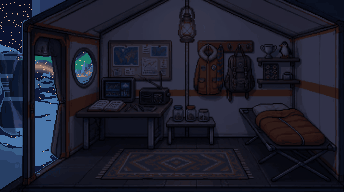
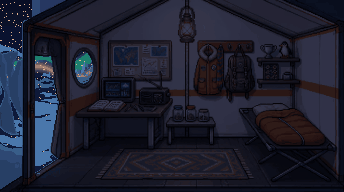
Linu vivo na cena e a geleira parada quando a luz apaga
O Linu da estação respira, pisca e pula ao toque (public/js/linu-vivo.js, a cópia do kit da
família), com o quadro de olhos fechados em img/linu/linu-frente-piscando.png. Parado com
"menos movimento" e fora da tela.

A geleira do vidro da esquerda piscava ao apagar a luz: o cena-apagada.py recoloria o dia
naquele canto. Agora o canto (x < 23, y < 135) vem da noite, e a imagem apagada foi corrigida.

Changed region(s): [[0.0, 0.2812, 0.0872, 0.6875]]

diff --git a/public/js/linu-vivo.js b/public/js/linu-vivo.js
@@ -1,0 +1,89 @@
+/* O Linu vivo (07/11/2026), o mesmo nos sites da família. Toda imagem com data-linu-vivo ganha:
+   - a respiração: desce e sobe 1 pixel da grade (2 px na tela se ele está em 2×), devagar;
+   - o piscar: troca pelo quadro de olhos fechados (data-piscar="img/…-piscando.png") por um instante, a cada 2,5 a 6 s,
+     às vezes duas vezes seguidas;
+   - o pulinho ao passar o mouse ou tocar.
+   Só anima enquanto ele está na tela e a aba está aberta; com “menos movimento”, fica parado (regra da identidade:
+   o Linu pode viver; o texto não anima sozinho). Usa a API de animação do navegador e a propriedade `translate`, para
+   somar com as animações próprias de cada site (que usam `transform`) sem brigar. Sem CSS: a CSP dos sites bloqueia
+   estilo embutido. Se alguém trocar a imagem (o Linu andando no Linu Sites), o piscar espera ela voltar.
+   O original mora em linuarquivos/modelos/ferramentas/familia/; cada site tem uma cópia em js/. */
+(function () {
+  "use strict";
+  var menos = window.matchMedia("(prefers-reduced-motion: reduce)");
+  var linus = Array.prototype.slice.call(document.querySelectorAll("img[data-linu-vivo]"));
+  if (!linus.length || !("animate" in Element.prototype)) return;
+
+  function escala(img) {
+    var k = img.naturalWidth ? Math.round(img.getBoundingClientRect().width / img.naturalWidth) : 1;
+    return Math.max(1, k || 1);
+  }
+
+  linus.forEach(function (img) {
+    var base = img.getAttribute("src");
+    var fechado = img.dataset.piscar;
+    var visivel = false;
+    var respira = null;
+    var relogio = null;
+    if (fechado) { var pre = new Image(); pre.src = fechado; }
+
+    function livre() { return img.getAttribute("src") === base && !img.closest("[data-andando]") && !img.hasAttribute("data-andando"); }
+
+    function respirar() {
+      if (respira) respira.cancel();
+      var k = escala(img);
+      respira = img.animate([{ translate: "0 0" }, { translate: "0 " + k + "px" }],
+        { duration: 1700, iterations: Infinity, direction: "alternate", easing: "steps(1, end)" });
+      if (!visivel) respira.pause();
+    }
+
+    function piscarUmaVez(depois) {
+      if (!fechado || !livre()) return depois && depois();
+      img.setAttribute("src", fechado);
+      setTimeout(function () {
+        if (img.getAttribute("src") === fechado) img.setAttribute("src", base);
+        if (depois) setTimeout(depois, 170);
+      }, 130);
+    }
+
+    function agendar() {
+      clearTimeout(relogio);
+      relogio = setTimeout(function () {
+        if (visivel && !document.hidden && !menos.matches) {
+          piscarUmaVez(Math.random() < 0.25 ? function () { piscarUmaVez(); } : null);
+        }
+        agendar();
+      }, 2500 + Math.random() * 3500);
+    }
+
+    function pular() {
+      if (menos.matches) return;
+      var k = escala(img);
+      img.animate([{ translate: "0 0" }, { translate: "0 " + (-6 * k) + "px", offset: 0.4 }, { translate: "0 0" }],
+        { duration: 420, easing: "steps(6, end)", composite: "add" });
+      piscarUmaVez();
+    }
+
+    function ligar() {
+      if (menos.matches) { if (respira) respira.cancel(); respira = null; clearTimeout(relogio); return; }
+      respirar();
+      agendar();
+    }
+
+    if ("IntersectionObserver" in window) {
+      new IntersectionObserver(function (itens) {
+        visivel = itens[0].isIntersecting;
+        if (respira) { if (visivel && !document.hidden) respira.play(); else respira.pause(); }
+      }).observe(img);
+    } else {
+      visivel = true;
+    }
+    document.addEventListener("visibilitychange", function () {
+      if (respira) { if (document.hidden || !visivel) respira.pause(); else respira.play(); }
+    });
+    img.addEventListener("pointerenter", function (e) { if (e.pointerType === "mouse") pular(); });
+    img.addEventListener("pointerdown", pular);
+    if (menos.addEventListener) menos.addEventListener("change", ligar);
+    if (img.complete) ligar(); else img.addEventListener("load", ligar, { once: true });
+  });
+})();

diff --git a/public/ja/index.html b/public/ja/index.html
@@ -57,6 +57,7 @@
   <script type="application/json" id="textos-js">{"menu_abrir":"メニューを開く","menu_fechar":"メニューを閉じる","luz_apagar_aria":"明かりを消す（ダークモード）","luz_acender_aria":"明かりをつける（ライトモード）","luz_apagar":"明かりを消す","luz_acender":"明かりをつける","fechar":"閉じる","escolha":"種類を選ぶと目安が表示されます","sem_tipo":"大丈夫です。ご相談の中で一緒に決めましょう。","um_item":"1項目","n_itens":"{n}項目","extra":"＋{itens}はご提案で","por_ano":"年額{valor}","por_mes":"月額{valor}","estimativa":"目安：{valor}から{extra}","linha_tipo":"種類：{nome}","linha_itens":"必要な機能：","linha_depois":"公開後：{nome}{anual}","anual":"（年払い）","linha_estimativa":"サイトの目安：{valor}から{extra}","ola":"こんにちは。ウェブサイトの制作を相談したいです。","sobre":"私のビジネスについて：","assunto":"ウェブサイト制作のご相談","ola_conversa":"こんにちは。ウェブサイトについて相談させてください。","area_vazia":"この分野の実績はここにはありません。","conversa_aberta":"今はご連絡いただける時間です。お客様の時刻で{fim}まで対応します。","conversa_fechada":"今は時間外です。次の開始は、お客様の時刻で{inicio}です。"}</script>
   <script src="../js/tema-inicio.js?v=6"></script>
   <link rel="stylesheet" href="../css/estilo.css?v=31">
+  <script src="../js/linu-vivo.js?v=1" defer></script>
   <script src="../js/tema.js?v=9" defer></script>
   <script src="../js/menu.js?v=7" defer></script>
   <script src="../js/movimento.js?v=10" defer></script>
@@ -152,7 +153,7 @@
                 <li class="plaquinha plaquinha-contato"><a href="#contato">見積もりを依頼</a></li>
               </ul>
               <span class="cena-linu" data-pose="frente">
-                <img class="pixel linu-frente" src="../img/linu/linu-frente.png?v=2" alt="" width="172" height="190">
+                <img class="pixel linu-frente" data-linu-vivo data-piscar="../img/linu/linu-frente-piscando.png" src="../img/linu/linu-frente.png?v=2" alt="" width="172" height="190">
                 <span class="linu-lado"><img class="pixel" src="../img/linu/linu-lado.png?v=2" alt="" width="688" height="190"></span>
                 <img class="pixel linu-costas" src="../img/linu/linu-costas.png?v=2" alt="" width="172" height="190">
               </span>

diff --git a/public/ko/index.html b/public/ko/index.html
@@ -57,6 +57,7 @@
   <script type="application/json" id="textos-js">{"menu_abrir":"메뉴 열기","menu_fechar":"메뉴 닫기","luz_apagar_aria":"불 끄기 (다크 모드)","luz_acender_aria":"불 켜기 (라이트 모드)","luz_apagar":"불 끄기","luz_acender":"불 켜기","fechar":"닫기","escolha":"유형을 고르면 예상 가격이 보입니다","sem_tipo":"괜찮습니다. 상담하면서 함께 정해요.","um_item":"1개 항목","n_itens":"{n}개 항목","extra":" + {itens}은 제안서에서","por_ano":"연 {valor}","por_mes":"월 {valor}","estimativa":"예상: 최소 {valor}{extra}","linha_tipo":"유형: {nome}","linha_itens":"필요한 기능:","linha_depois":"오픈 후: {nome}{anual}","anual":" (연 선납)","linha_estimativa":"사이트 예상 가격: 최소 {valor}{extra}","ola":"안녕하세요! 웹사이트 제작을 문의드립니다.","sobre":"제 비즈니스 소개: ","assunto":"웹사이트 제작 문의","ola_conversa":"안녕하세요! 웹사이트에 대해 상담하고 싶습니다.","area_vazia":"이 분야의 프로젝트는 여기 없습니다.","conversa_aberta":"지금 상담할 수 있습니다. 현지 시간으로 {fim}까지입니다.","conversa_fechada":"지금은 상담 시간이 아닙니다. 다음 시작은 현지 시간으로 {inicio}입니다."}</script>
   <script src="../js/tema-inicio.js?v=6"></script>
   <link rel="stylesheet" href="../css/estilo.css?v=31">
+  <script src="../js/linu-vivo.js?v=1" defer></script>
   <script src="../js/tema.js?v=9" defer></script>
   <script src="../js/menu.js?v=7" defer></script>
   <script src="../js/movimento.js?v=10" defer></script>
@@ -152,7 +153,7 @@
                 <li class="plaquinha plaquinha-contato"><a href="#contato">견적 요청</a></li>
               </ul>
               <span class="cena-linu" data-pose="frente">
-                <img class="pixel linu-frente" src="../img/linu/linu-frente.png?v=2" alt="" width="172" height="190">
+                <img class="pixel linu-frente" data-linu-vivo data-piscar="../img/linu/linu-frente-piscando.png" src="../img/linu/linu-frente.png?v=2" alt="" width="172" height="190">
                 <span class="linu-lado"><img class="pixel" src="../img/linu/linu-lado.png?v=2" alt="" width="688" height="190"></span>
                 <img class="pixel linu-costas" src="../img/linu/linu-costas.png?v=2" alt="" width="172" height="190">
               </span>

diff --git a/public/fr/index.html b/public/fr/index.html
@@ -57,6 +57,7 @@
   <script type="application/json" id="textos-js">{"menu_abrir":"Ouvrir le menu","menu_fechar":"Fermer le menu","luz_apagar_aria":"Éteindre la lumière (mode sombre)","luz_acender_aria":"Allumer la lumière (mode clair)","luz_apagar":"Éteindre la lumière","luz_acender":"Allumer la lumière","fechar":"Fermer","escolha":"Choisissez le type pour voir une estimation","sem_tipo":"Pas de souci : l’échange aidera à choisir le type.","um_item":"un élément","n_itens":"{n} éléments","extra":" + {itens} dans la proposition","por_ano":"{valor} par an","por_mes":"{valor} par mois","estimativa":"Estimation : à partir de {valor}{extra}","linha_tipo":"Type : {nome}","linha_itens":"Doit contenir :","linha_depois":"Une fois en ligne : {nome}{anual}","anual":", en payant l’année","linha_estimativa":"Estimation du site : à partir de {valor}{extra}","ola":"Bonjour ! Je voudrais un site.","sobre":"À propos de mon entreprise : ","assunto":"Je voudrais un site","ola_conversa":"Bonjour ! J’aimerais parler d’un site.","area_vazia":"Aucun projet de ce secteur ici.","conversa_aberta":"Nous sommes disponibles jusqu’à {fim}, à votre heure.","conversa_fechada":"Nous ne sommes pas disponibles pour le moment. Prochain créneau : {inicio}, à votre heure."}</script>
   <script src="../js/tema-inicio.js?v=6"></script>
   <link rel="stylesheet" href="../css/estilo.css?v=31">
+  <script src="../js/linu-vivo.js?v=1" defer></script>
   <script src="../js/tema.js?v=9" defer></script>
   <script src="../js/menu.js?v=7" defer></script>
   <script src="../js/movimento.js?v=10" defer></script>
@@ -152,7 +153,7 @@
                 <li class="plaquinha plaquinha-contato"><a href="#contato">Demander un devis</a></li>
               </ul>
               <span class="cena-linu" data-pose="frente">
-                <img class="pixel linu-frente" src="../img/linu/linu-frente.png?v=2" alt="" width="172" height="190">
+                <img class="pixel linu-frente" data-linu-vivo data-piscar="../img/linu/linu-frente-piscando.png" src="../img/linu/linu-frente.png?v=2" alt="" width="172" height="190">
                 <span class="linu-lado"><img class="pixel" src="../img/linu/linu-lado.png?v=2" alt="" width="688" height="190"></span>
                 <img class="pixel linu-costas" src="../img/linu/linu-costas.png?v=2" alt="" width="172" height="190">
               </span>

diff --git a/public/de/index.html b/public/de/index.html
@@ -57,6 +57,7 @@
   <script type="application/json" id="textos-js">{"menu_abrir":"Menü öffnen","menu_fechar":"Menü schließen","luz_apagar_aria":"Licht ausschalten (dunkler Modus)","luz_acender_aria":"Licht einschalten (heller Modus)","luz_apagar":"Licht ausschalten","luz_acender":"Licht einschalten","fechar":"Schließen","escolha":"Wählen Sie die Art für eine Schätzung","sem_tipo":"Kein Problem: Im Gespräch finden wir die passende Art.","um_item":"ein Punkt","n_itens":"{n} Punkte","extra":" + {itens} im Angebot","por_ano":"{valor} pro Jahr","por_mes":"{valor} pro Monat","estimativa":"Schätzung: ab {valor}{extra}","linha_tipo":"Art: {nome}","linha_itens":"Soll haben:","linha_depois":"Nach dem Start: {nome}{anual}","anual":", jährlich bezahlt","linha_estimativa":"Schätzung der Website: ab {valor}{extra}","ola":"Hallo! Ich möchte eine Website.","sobre":"Über mein Unternehmen: ","assunto":"Ich möchte eine Website","ola_conversa":"Hallo! Ich möchte über eine Website sprechen.","area_vazia":"Hier kein Projekt aus dieser Branche.","conversa_aberta":"Wir sind jetzt erreichbar, bis {fim} Ihrer Zeit.","conversa_fechada":"Wir sind gerade nicht erreichbar. Das nächste Zeitfenster beginnt {inicio} Ihrer Zeit."}</script>
   <script src="../js/tema-inicio.js?v=6"></script>
   <link rel="stylesheet" href="../css/estilo.css?v=31">
+  <script src="../js/linu-vivo.js?v=1" defer></script>
   <script src="../js/tema.js?v=9" defer></script>
   <script src="../js/menu.js?v=7" defer></script>
   <script src="../js/movimento.js?v=10" defer></script>
@@ -152,7 +153,7 @@
                 <li class="plaquinha plaquinha-contato"><a href="#contato">Angebot anfragen</a></li>
               </ul>
               <span class="cena-linu" data-pose="frente">
-                <img class="pixel linu-frente" src="../img/linu/linu-frente.png?v=2" alt="" width="172" height="190">
+                <img class="pixel linu-frente" data-linu-vivo data-piscar="../img/linu/linu-frente-piscando.png" src="../img/linu/linu-frente.png?v=2" alt="" width="172" height="190">
                 <span class="linu-lado"><img class="pixel" src="../img/linu/linu-lado.png?v=2" alt="" width="688" height="190"></span>
                 <img class="pixel linu-costas" src="../img/linu/linu-costas.png?v=2" alt="" width="172" height="190">
               </span>

diff --git a/public/it/index.html b/public/it/index.html
@@ -57,6 +57,7 @@
   <script type="application/json" id="textos-js">{"menu_abrir":"Apri il menù","menu_fechar":"Chiudi il menù","luz_apagar_aria":"Spegni la luce (modalità scura)","luz_acender_aria":"Accendi la luce (modalità chiara)","luz_apagar":"Spegni la luce","luz_acender":"Accendi la luce","fechar":"Chiudi","escolha":"Scegli il tipo per vedere una stima","sem_tipo":"Nessun problema: la conversazione aiuta a scegliere il tipo.","um_item":"un elemento","n_itens":"{n} elementi","extra":" + {itens} nella proposta","por_ano":"{valor} l’anno","por_mes":"{valor} al mese","estimativa":"Stima: da {valor}{extra}","linha_tipo":"Tipo: {nome}","linha_itens":"Deve avere:","linha_depois":"Dopo la pubblicazione: {nome}{anual}","anual":", pagando l’anno","linha_estimativa":"Stima del sito: da {valor}{extra}","ola":"Ciao! Vorrei un sito.","sobre":"Sulla mia attività: ","assunto":"Vorrei un sito","ola_conversa":"Ciao! Vorrei parlare di un sito.","area_vazia":"Nessun progetto di questo settore qui.","conversa_aberta":"Adesso possiamo parlare, fino a {fim} nel tuo orario.","conversa_fechada":"Adesso siamo fuori orario. La prossima fascia apre {inicio} nel tuo orario."}</script>
   <script src="../js/tema-inicio.js?v=6"></script>
   <link rel="stylesheet" href="../css/estilo.css?v=31">
+  <script src="../js/linu-vivo.js?v=1" defer></script>
   <script src="../js/tema.js?v=9" defer></script>
   <script src="../js/menu.js?v=7" defer></script>
   <script src="../js/movimento.js?v=10" defer></script>
@@ -152,7 +153,7 @@
                 <li class="plaquinha plaquinha-contato"><a href="#contato">Chiedi un preventivo</a></li>
               </ul>
               <span class="cena-linu" data-pose="frente">
-                <img class="pixel linu-frente" src="../img/linu/linu-frente.png?v=2" alt="" width="172" height="190">
+                <img class="pixel linu-frente" data-linu-vivo data-piscar="../img/linu/linu-frente-piscando.png" src="../img/linu/linu-frente.png?v=2" alt="" width="172" height="190">
                 <span class="linu-lado"><img class="pixel" src="../img/linu/linu-lado.png?v=2" alt="" width="688" height="190"></span>
                 <img class="pixel linu-costas" src="../img/linu/linu-costas.png?v=2" alt="" width="172" height="190">
               </span>

diff --git a/public/es/index.html b/public/es/index.html
@@ -57,6 +57,7 @@
   <script type="application/json" id="textos-js">{"menu_abrir":"Abrir el menú","menu_fechar":"Cerrar el menú","luz_apagar_aria":"Apagar la luz (modo oscuro)","luz_acender_aria":"Encender la luz (modo claro)","luz_apagar":"Apagar la luz","luz_acender":"Encender la luz","fechar":"Cerrar","escolha":"Elige el tipo para ver una estimación","sem_tipo":"Sin problema: la conversación ayuda a elegir el tipo.","um_item":"un elemento","n_itens":"{n} elementos","extra":" + {itens} en la propuesta","por_ano":"{valor} al año","por_mes":"{valor} al mes","estimativa":"Estimación: desde {valor}{extra}","linha_tipo":"Tipo: {nome}","linha_itens":"Necesita tener:","linha_depois":"Una vez lista: {nome}{anual}","anual":", pagando el año","linha_estimativa":"Estimación de la web: desde {valor}{extra}","ola":"¡Hola! Quiero una web.","sobre":"Sobre mi negocio: ","assunto":"Quiero una web","ola_conversa":"¡Hola! Quiero hablar sobre una web.","area_vazia":"Ningún proyecto de este sector aquí.","conversa_aberta":"Ahora podemos hablar, hasta {fim} en tu hora.","conversa_fechada":"Ahora estamos fuera de horario. La próxima franja abre {inicio} en tu hora."}</script>
   <script src="../js/tema-inicio.js?v=6"></script>
   <link rel="stylesheet" href="../css/estilo.css?v=31">
+  <script src="../js/linu-vivo.js?v=1" defer></script>
   <script src="../js/tema.js?v=9" defer></script>
   <script src="../js/menu.js?v=7" defer></script>
   <script src="../js/movimento.js?v=10" defer></script>
@@ -152,7 +153,7 @@
                 <li class="plaquinha plaquinha-contato"><a href="#contato">Pedir presupuesto</a></li>
               </ul>
               <span class="cena-linu" data-pose="frente">
-                <img class="pixel linu-frente" src="../img/linu/linu-frente.png?v=2" alt="" width="172" height="190">
+                <img class="pixel linu-frente" data-linu-vivo data-piscar="../img/linu/linu-frente-piscando.png" src="../img/linu/linu-frente.png?v=2" alt="" width="172" height="190">
                 <span class="linu-lado"><img class="pixel" src="../img/linu/linu-lado.png?v=2" alt="" width="688" height="190"></span>
                 <img class="pixel linu-costas" src="../img/linu/linu-costas.png?v=2" alt="" width="172" height="190">
               </span>

diff --git a/public/nl/index.html b/public/nl/index.html
@@ -57,6 +57,7 @@
   <script type="application/json" id="textos-js">{"menu_abrir":"Menu openen","menu_fechar":"Menu sluiten","luz_apagar_aria":"Licht uit (donkere modus)","luz_acender_aria":"Licht aan (lichte modus)","luz_apagar":"Licht uit","luz_acender":"Licht aan","fechar":"Sluiten","escolha":"Kies het type voor een inschatting","sem_tipo":"Geen probleem: in het gesprek kiezen we samen het type.","um_item":"één onderdeel","n_itens":"{n} onderdelen","extra":" + {itens} in het voorstel","por_ano":"{valor} per jaar","por_mes":"{valor} per maand","estimativa":"Inschatting: vanaf {valor}{extra}","linha_tipo":"Type: {nome}","linha_itens":"Moet hebben:","linha_depois":"Na oplevering: {nome}{anual}","anual":", per jaar betaald","linha_estimativa":"Inschatting website: vanaf {valor}{extra}","ola":"Hallo! Ik wil een website.","sobre":"Over mijn bedrijf: ","assunto":"Ik wil een website","ola_conversa":"Hallo! Ik wil graag praten over een website.","area_vazia":"Geen projecten uit deze sector hier.","conversa_aberta":"We zijn nu bereikbaar, tot {fim} jouw tijd.","conversa_fechada":"We zijn nu niet bereikbaar. Het volgende blok begint {inicio} jouw tijd."}</script>
   <script src="../js/tema-inicio.js?v=6"></script>
   <link rel="stylesheet" href="../css/estilo.css?v=31">
+  <script src="../js/linu-vivo.js?v=1" defer></script>
   <script src="../js/tema.js?v=9" defer></script>
   <script src="../js/menu.js?v=7" defer></script>
   <script src="../js/movimento.js?v=10" defer></script>
@@ -152,7 +153,7 @@
                 <li class="plaquinha plaquinha-contato"><a href="#contato">Offerte aanvragen</a></li>
               </ul>
               <span class="cena-linu" data-pose="frente">
-                <img class="pixel linu-frente" src="../img/linu/linu-frente.png?v=2" alt="" width="172" height="190">
+                <img class="pixel linu-frente" data-linu-vivo data-piscar="../img/linu/linu-frente-piscando.png" src="../img/linu/linu-frente.png?v=2" alt="" width="172" height="190">
                 <span class="linu-lado"><img class="pixel" src="../img/linu/linu-lado.png?v=2" alt="" width="688" height="190"></span>
                 <img class="pixel linu-costas" src="../img/linu/linu-costas.png?v=2" alt="" width="172" height="190">
               </span>

diff --git a/public/en/index.html b/public/en/index.html
@@ -57,6 +57,7 @@
   <script type="application/json" id="textos-js">{"menu_abrir":"Open the menu","menu_fechar":"Close the menu","luz_apagar_aria":"Turn off the light (dark mode)","luz_acender_aria":"Turn on the light (light mode)","luz_apagar":"Turn off the light","luz_acender":"Turn on the light","fechar":"Close","escolha":"Choose the type to see an estimate","sem_tipo":"No problem: the conversation will help choose the type.","um_item":"one item","n_itens":"{n} items","extra":" + {itens} in the proposal","por_ano":"{valor} a year","por_mes":"{valor} a month","estimativa":"Estimate: from {valor}{extra}","linha_tipo":"Type: {nome}","linha_itens":"It needs:","linha_depois":"Once it's live: {nome}{anual}","anual":", paying for the year","linha_estimativa":"Website estimate: from {valor}{extra}","ola":"Hello! I'd like a website.","sobre":"About my business: ","assunto":"I'd like a website","ola_conversa":"Hello! I'd like to talk about a website.","area_vazia":"No projects from this sector here.","conversa_aberta":"We can talk now, until {fim} your time.","conversa_fechada":"We're outside our hours right now. The next window opens {inicio} your time."}</script>
   <script src="../js/tema-inicio.js?v=6"></script>
   <link rel="stylesheet" href="../css/estilo.css?v=31">
+  <script src="../js/linu-vivo.js?v=1" defer></script>
   <script src="../js/tema.js?v=9" defer></script>
   <script src="../js/menu.js?v=7" defer></script>
   <script src="../js/movimento.js?v=10" defer></script>
@@ -152,7 +153,7 @@
                 <li class="plaquinha plaquinha-contato"><a href="#contato">Get a quote</a></li>
               </ul>
               <span class="cena-linu" data-pose="frente">
-                <img class="pixel linu-frente" src="../img/linu/linu-frente.png?v=2" alt="" width="172" height="190">
+                <img class="pixel linu-frente" data-linu-vivo data-piscar="../img/linu/linu-frente-piscando.png" src="../img/linu/linu-frente.png?v=2" alt="" width="172" height="190">
                 <span class="linu-lado"><img class="pixel" src="../img/linu/linu-lado.png?v=2" alt="" width="688" height="190"></span>
                 <img class="pixel linu-costas" src="../img/linu/linu-costas.png?v=2" alt="" width="172" height="190">
               </span>

diff --git a/public/intl/index.html b/public/intl/index.html
@@ -57,6 +57,7 @@
   <script type="application/json" id="textos-js">{"menu_abrir":"Open the menu","menu_fechar":"Close the menu","luz_apagar_aria":"Turn off the light (dark mode)","luz_acender_aria":"Turn on the light (light mode)","luz_apagar":"Turn off the light","luz_acender":"Turn on the light","fechar":"Close","escolha":"Choose the type to see an estimate","sem_tipo":"No problem: the conversation will help choose the type.","um_item":"one item","n_itens":"{n} items","extra":" + {itens} in the proposal","por_ano":"{valor} a year","por_mes":"{valor} a month","estimativa":"Estimate: from {valor}{extra}","linha_tipo":"Type: {nome}","linha_itens":"It needs:","linha_depois":"Once it's live: {nome}{anual}","anual":", paying for the year","linha_estimativa":"Website estimate: from {valor}{extra}","ola":"Hello! I'd like a website.","sobre":"About my business: ","assunto":"I'd like a website","ola_conversa":"Hello! I'd like to talk about a website.","area_vazia":"No projects from this sector here.","conversa_aberta":"We can talk now, until {fim} your time.","conversa_fechada":"We're outside our hours right now. The next window opens {inicio} your time."}</script>
   <script src="../js/tema-inicio.js?v=6"></script>
   <link rel="stylesheet" href="../css/estilo.css?v=31">
+  <script src="../js/linu-vivo.js?v=1" defer></script>
   <script src="../js/tema.js?v=9" defer></script>
   <script src="../js/menu.js?v=7" defer></script>
   <script src="../js/movimento.js?v=10" defer></script>
@@ -152,7 +153,7 @@
                 <li class="plaquinha plaquinha-contato"><a href="#contato">Get a quote</a></li>
               </ul>
               <span class="cena-linu" data-pose="frente">
-                <img class="pixel linu-frente" src="../img/linu/linu-frente.png?v=2" alt="" width="172" height="190">
+                <img class="pixel linu-frente" data-linu-vivo data-piscar="../img/linu/linu-frente-piscando.png" src="../img/linu/linu-frente.png?v=2" alt="" width="172" height="190">
                 <span class="linu-lado"><img class="pixel" src="../img/linu/linu-lado.png?v=2" alt="" width="688" height="190"></span>
                 <img class="pixel linu-costas" src="../img/linu/linu-costas.png?v=2" alt="" width="172" height="190">
               </span>

diff --git a/public/pt-pt/index.html b/public/pt-pt/index.html
@@ -57,6 +57,7 @@
   <script type="application/json" id="textos-js">{"menu_abrir":"Abrir o menu","menu_fechar":"Fechar o menu","luz_apagar_aria":"Apagar a luz (modo escuro)","luz_acender_aria":"Acender a luz (modo claro)","luz_apagar":"Apagar a luz","luz_acender":"Acender a luz","fechar":"Fechar","escolha":"Escolha o tipo para ver uma estimativa","sem_tipo":"Sem problema: a conversa ajuda a escolher o tipo.","um_item":"um item","n_itens":"{n} itens","extra":" + {itens} na proposta","por_ano":"{valor} por ano","por_mes":"{valor} por mês","estimativa":"Estimativa: a partir de {valor}{extra}","linha_tipo":"Tipo: {nome}","linha_itens":"Precisa de ter:","linha_depois":"Depois de pronto: {nome}{anual}","anual":", pagando o ano","linha_estimativa":"Estimativa do site: a partir de {valor}{extra}","ola":"Olá! Quero um site.","sobre":"Sobre o meu negócio: ","assunto":"Quero um site","ola_conversa":"Olá! Gostava de falar sobre um site.","area_vazia":"Nenhum projeto desta área aqui.","conversa_aberta":"Agora podemos falar, até {fim} na sua hora.","conversa_fechada":"Agora estamos fora do horário. A próxima janela abre {inicio} na sua hora."}</script>
   <script src="../js/tema-inicio.js?v=6"></script>
   <link rel="stylesheet" href="../css/estilo.css?v=31">
+  <script src="../js/linu-vivo.js?v=1" defer></script>
   <script src="../js/tema.js?v=9" defer></script>
   <script src="../js/menu.js?v=7" defer></script>
   <script src="../js/movimento.js?v=10" defer></script>
@@ -152,7 +153,7 @@
                 <li class="plaquinha plaquinha-contato"><a href="#contato">Pedir orçamento</a></li>
               </ul>
               <span class="cena-linu" data-pose="frente">
-                <img class="pixel linu-frente" src="../img/linu/linu-frente.png?v=2" alt="" width="172" height="190">
+                <img class="pixel linu-frente" data-linu-vivo data-piscar="../img/linu/linu-frente-piscando.png" src="../img/linu/linu-frente.png?v=2" alt="" width="172" height="190">
                 <span class="linu-lado"><img class="pixel" src="../img/linu/linu-lado.png?v=2" alt="" width="688" height="190"></span>
                 <img class="pixel linu-costas" src="../img/linu/linu-costas.png?v=2" alt="" width="172" height="190">
               </span>

diff --git a/public/ca/index.html b/public/ca/index.html
@@ -57,6 +57,7 @@
   <script type="application/json" id="textos-js">{"menu_abrir":"Obrir el menú","menu_fechar":"Tancar el menú","luz_apagar_aria":"Apagar el llum (mode fosc)","luz_acender_aria":"Encendre el llum (mode clar)","luz_apagar":"Apagar el llum","luz_acender":"Encendre el llum","fechar":"Tancar","escolha":"Tria el tipus per veure una estimació","sem_tipo":"Cap problema: la conversa ajuda a triar el tipus.","um_item":"un element","n_itens":"{n} elements","extra":" + {itens} a la proposta","por_ano":"{valor} l'any","por_mes":"{valor} al mes","estimativa":"Estimació: des de {valor}{extra}","linha_tipo":"Tipus: {nome}","linha_itens":"Ha de tenir:","linha_depois":"Un cop feta: {nome}{anual}","anual":", pagant l'any","linha_estimativa":"Estimació de la web: des de {valor}{extra}","ola":"Hola! Vull una web.","sobre":"Sobre el meu negoci: ","assunto":"Vull una web","ola_conversa":"Hola! Vull parlar d'una web.","area_vazia":"Cap projecte d'aquest sector aquí.","conversa_aberta":"Ara podem parlar, fins a {fim} a la teva hora.","conversa_fechada":"Ara estem fora d'horari. La propera franja obre {inicio} a la teva hora."}</script>
   <script src="../js/tema-inicio.js?v=6"></script>
   <link rel="stylesheet" href="../css/estilo.css?v=31">
+  <script src="../js/linu-vivo.js?v=1" defer></script>
   <script src="../js/tema.js?v=9" defer></script>
   <script src="../js/menu.js?v=7" defer></script>
   <script src="../js/movimento.js?v=10" defer></script>
@@ -152,7 +153,7 @@
                 <li class="plaquinha plaquinha-contato"><a href="#contato">Demanar pressupost</a></li>
               </ul>
               <span class="cena-linu" data-pose="frente">
-                <img class="pixel linu-frente" src="../img/linu/linu-frente.png?v=2" alt="" width="172" height="190">
+                <img class="pixel linu-frente" data-linu-vivo data-piscar="../img/linu/linu-frente-piscando.png" src="../img/linu/linu-frente.png?v=2" alt="" width="172" height="190">
                 <span class="linu-lado"><img class="pixel" src="../img/linu/linu-lado.png?v=2" alt="" width="688" height="190"></span>
                 <img class="pixel linu-costas" src="../img/linu/linu-costas.png?v=2" alt="" width="172" height="190">
               </span>
